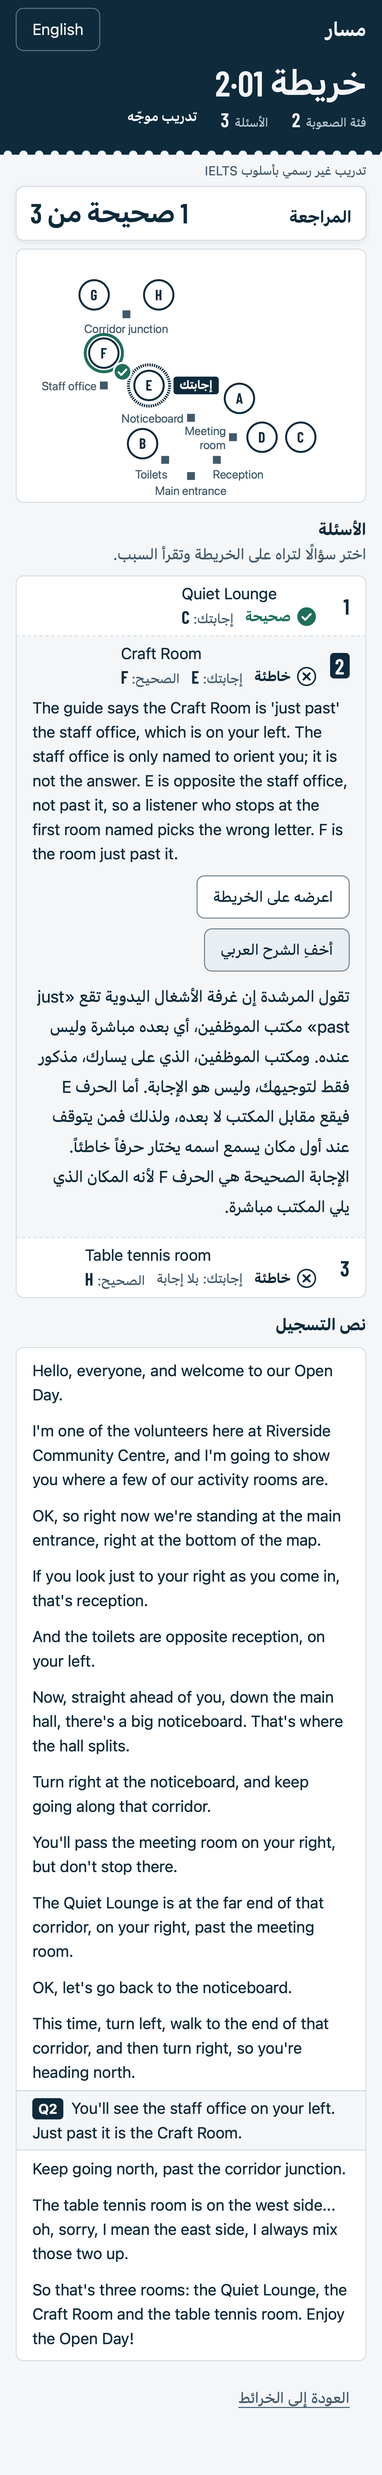
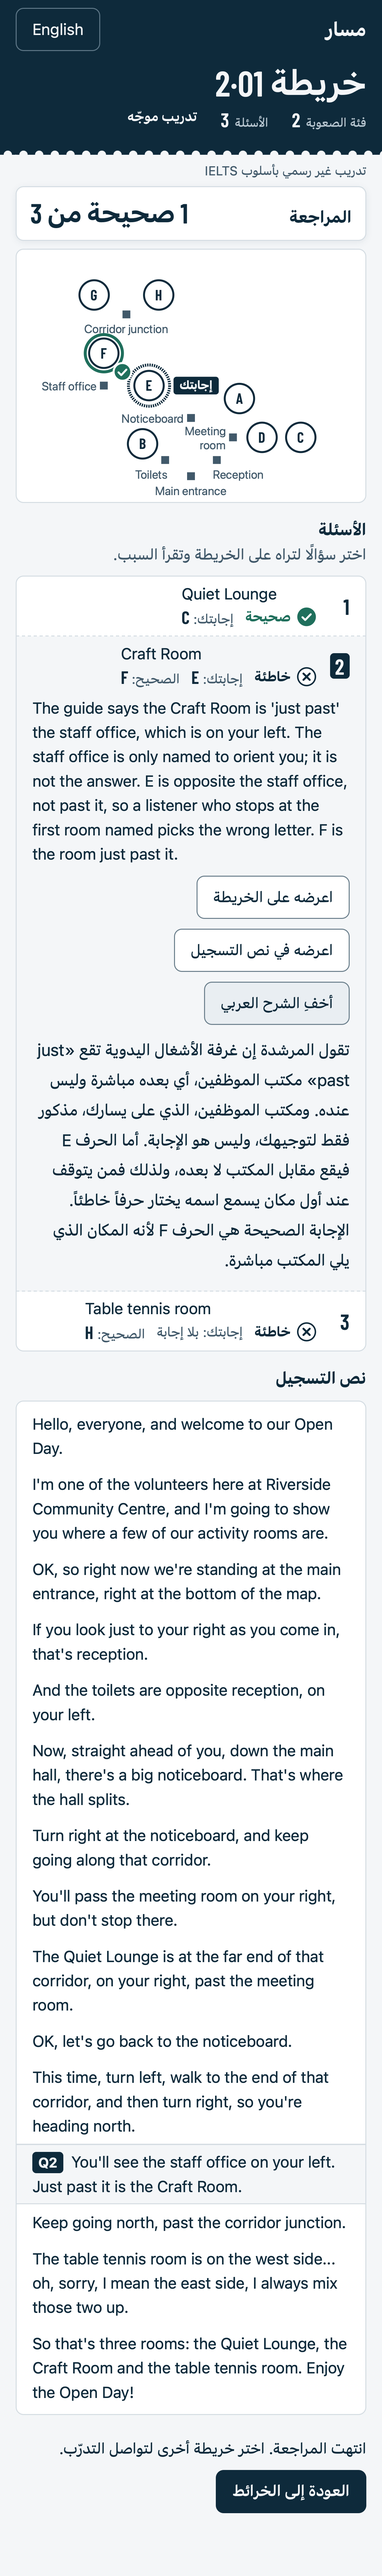
Ticket 09 owner decisions: Arabic toggle stays open; Show in the transcript jumps to and focuses the answer line; review ends with one Back to maps; way back to a past review moved to ticket 12; browser checks and evidence

Changed region(s): [[0.0615, 0.0312, 0.9538, 0.9981], [0.5538, 0.0312, 0.9538, 0.0936], [0.1231, 0.0, 0.1538, 0.0312]]

diff --git a/web/src/Review.tsx b/web/src/Review.tsx
@@ -8,14 +8,15 @@ import { bidiRuns } from './bidi.ts';
 import { ItemMap } from './ItemMap.tsx';
 import type { Strings } from './strings.ts';
 
-type Props = { t: Strings; item: DeliveredItem; attemptId: string; onSessionGone: () => void };
+type Props = { t: Strings; item: DeliveredItem; attemptId: string; onBack: () => void; onSessionGone: () => void };
 
-export function Review({ t, item, attemptId, onSessionGone }: Props) {
+export function Review({ t, item, attemptId, onBack, onSessionGone }: Props) {
   const [review, setReview] = useState<ReviewData | 'loading' | 'offline' | 'failed'>('loading');
   const [selected, setSelected] = useState(0);
   const [arabicOpen, setArabicOpen] = useState(false);
   const heading = useRef<HTMLHeadingElement>(null);
   const mapFrame = useRef<HTMLDivElement>(null);
+  const namedLine = useRef<HTMLLIElement>(null);
 
   const load = useCallback(async () => {
     setReview('loading');
@@ -103,9 +104,14 @@ export function Review({ t, item, attemptId, onSessionGone }: Props) {
                       {q.explanation.en}
                     </p>
                     {/* On a phone the map is out of view below the open row; desktop shows both side by side. */}
-                    <button type="button" className="see-on-map" onClick={() => showMap(mapFrame.current)}>
+                    <button type="button" className="see-on-map" onClick={() => bringIntoView(mapFrame.current)}>
                       {t.seeOnMap}
                     </button>
+                    {q.cueId && (
+                      <button type="button" onClick={() => bringIntoView(namedLine.current, true)}>
+                        {t.showInTranscript}
+                      </button>
+                    )}
                     <button type="button" aria-expanded={arabicOpen} onClick={() => setArabicOpen(!arabicOpen)}>
                       {arabicOpen ? t.hideArabic : t.readArabic}
                     </button>
@@ -138,7 +144,12 @@ export function Review({ t, item, attemptId, onSessionGone }: Props) {
             // The selected question's line; two questions named in one line each mark it when selected.
             const here = cue.id === question.cueId;
             return (
-              <li key={cue.id} className={here ? 'named' : undefined}>
+              <li
+                key={cue.id}
+                ref={here ? namedLine : undefined}
+                className={here ? 'named' : undefined}
+                tabIndex={here ? -1 : undefined}
+              >
                 {here && (
                   <span className="named-tag">
                     <span aria-hidden="true">Q{selected + 1}</span>
@@ -153,14 +164,23 @@ export function Review({ t, item, attemptId, onSessionGone }: Props) {
           })}
         </ol>
       </section>
+
+      <div className="review-end">
+        <p>{t.reviewEnd}</p>
+        <button type="button" className="primary" onClick={onBack}>
+          {t.backToMaps}
+        </button>
+      </div>
     </>
   );
 }
 
-// Scrolls the map into view, without animation for a learner who asked for reduced motion.
-function showMap(frame: HTMLElement | null) {
+// Scrolls a part of the review into view, without animation for a learner who asked for reduced motion. A transcript
+// line also takes focus, so keyboard and screen reader users land on it.
+function bringIntoView(target: HTMLElement | null, focus = false) {
   const still = window.matchMedia('(prefers-reduced-motion: reduce)').matches;
-  frame?.scrollIntoView({ behavior: still ? 'auto' : 'smooth', block: 'start' });
+  if (focus) target?.focus({ preventScroll: true });
+  target?.scrollIntoView({ behavior: still ? 'auto' : 'smooth', block: focus ? 'center' : 'start' });
 }
 
 // "Right" or "Wrong" with a drawn mark, then the learner's letter and the correct one in words.

diff --git a/web/e2e/review.spec.ts b/web/e2e/review.spec.ts
@@ -134,11 +134,26 @@ test('review shows the score, each letter against the correct one on the list an
   await expect(page.getByRole('img', { name: 'خريطة السؤال 3: الحرف الصحيح H، ولم تُجب.' })).toBeVisible();
   await expect(row(page, 3).locator('p.why-ar bdi')).toHaveText(['oh, sorry, I mean', 'G', 'H']);
 
+  // "Show in the transcript" takes the learner to the line where q3's answer is named (c14).
+  await row(page, 3).getByRole('button', { name: 'اعرضه في نص التسجيل' }).click();
+  const named = page.locator('.transcript li.named');
+  await expect(named).toBeFocused();
+  await expect(named).toHaveText(/^Q3/);
+  await expect(named).toBeInViewport();
+
   // Keyboard: the question rows are buttons in order; Enter opens one.
   await row(page, 1).locator('.review-row').focus();
   await page.keyboard.press('Enter');
   await expect(row(page, 1).locator('.review-row')).toHaveAttribute('aria-expanded', 'true');
   await expect(row(page, 1).locator('p.why-ar bdi')).toHaveText(['at the far end', 'D', 'A', 'C']);
+
+  // The review ends with one way on: back to the maps (the quiet back link is not repeated).
+  await expect(page.getByText('انتهت المراجعة. اختر خريطة أخرى لتواصل التدرّب.')).toBeVisible();
+  await expect(page.getByRole('button', { name: 'العودة إلى الخرائط' })).toHaveCount(1);
+  await page.screenshot({ path: `${EVIDENCE}review-end-${testInfo.project.name}.png`, fullPage: true });
+  await page.getByRole('button', { name: 'العودة إلى الخرائط' }).click();
+  await expect(page.getByRole('heading', { name: 'فئة الصعوبة 1' })).toBeVisible();
+  await expect(page.locator('.review-score')).toHaveCount(0);
 });
 
 test('a review that cannot load says why and loads on retry', async ({ page }, testInfo) => {

diff --git a/web/src/Player.tsx b/web/src/Player.tsx
@@ -261,7 +261,7 @@ function PlayerScreen({ t, mapNumber, onBack, onSessionGone, item, attempt }: Sc
       <p className="unofficial">{t.unofficial}</p>
 
       {reviewing ? (
-        <Review t={t} item={item} attemptId={attempt.id} onSessionGone={onSessionGone} />
+        <Review t={t} item={item} attemptId={attempt.id} onBack={onBack} onSessionGone={onSessionGone} />
       ) : (
         <>
           <div className="status-strip" ref={strip} tabIndex={-1}>
@@ -437,9 +437,12 @@ function PlayerScreen({ t, mapNumber, onBack, onSessionGone, item, attempt }: Sc
         </>
       )}
 
-      <button type="button" className="quiet back" onClick={onBack}>
-        {t.backToMaps}
-      </button>
+      {/* The review ends with its own Back to maps. */}
+      {!reviewing && (
+        <button type="button" className="quiet back" onClick={onBack}>
+          {t.backToMaps}
+        </button>
+      )}
 
       {/* No controls attribute: the first listen offers no pause or seek. Gone once submitted (the server closes it). */}
       {!submitted && (

diff --git a/web/src/app.css b/web/src/app.css
@@ -1011,6 +1011,25 @@ button.review-row {
   border-radius: 4px;
 }
 
+/* Draws the eye to the named line after "Show in the transcript"; the highlight itself is the .named background. */
+.transcript li.named:focus-visible {
+  outline: 2px solid var(--night);
+  outline-offset: -2px;
+}
+
+.review-end {
+  display: flex;
+  flex-wrap: wrap;
+  align-items: center;
+  gap: 0.75rem 1rem;
+  padding-block: 0.5rem;
+}
+
+.player .review-end p {
+  margin: 0;
+  color: var(--ink);
+}
+
 /* Map marks: the correct letter framed solid with a tick; the learner's letter framed dashed with a tag. */
 .item-map .review-marks .correct-frame {
   fill: none;
@@ -1048,7 +1067,8 @@ button.review-row {
   font-weight: 700;
 }
 
-.player .back {
+.player .back,
+.review-end {
   grid-area: back;
   justify-self: start;
   margin: 1rem;
@@ -1098,7 +1118,8 @@ button.review-row {
     align-self: start;
   }
 
-  .player .back {
+  .player .back,
+  .review-end {
     margin-inline: 0;
   }
 

diff --git a/web/src/strings.ts b/web/src/strings.ts
@@ -177,10 +177,12 @@ const en = {
   right: 'Right',
   wrong: 'Wrong',
   seeOnMap: 'See it on the map',
+  showInTranscript: 'Show in the transcript',
   readArabic: 'Read in Arabic',
   hideArabic: 'Hide the Arabic',
   transcriptTitle: 'Transcript',
   answerNamedHere: (n: number) => `Question ${n} answer named here`,
+  reviewEnd: 'That is the whole review. Choose another map to keep practising.',
   lang: 'en',
 };
 
@@ -351,10 +353,12 @@ const ar: typeof en = {
   right: 'صحيحة',
   wrong: 'خاطئة',
   seeOnMap: 'اعرضه على الخريطة',
+  showInTranscript: 'اعرضه في نص التسجيل',
   readArabic: 'اقرأ الشرح بالعربية',
   hideArabic: 'أخفِ الشرح العربي',
   transcriptTitle: 'نص التسجيل',
   answerNamedHere: (n: number) => `هنا ذُكرت إجابة السؤال ${n}`,
+  reviewEnd: 'انتهت المراجعة. اختر خريطة أخرى لتواصل التدرّب.',
   lang: 'ar',
 };
 

diff --git a/.scratch/listening-map-prototype/issues/09-review-explanations.md b/.scratch/listening-map-prototype/issues/09-review-explanations.md
@@ -96,3 +96,12 @@ Built on `agent/review-explanations`. It branches from `agent/answer-submit` at 
 - CI (not pushed).
 
 **Not in this ticket:** a way back to a past review after leaving the screen (the endpoint exists; no screen links to it yet). Suggest ticket 12 (resume and repeat) or 15 (progress) owns it.
+
+### 2026-11-20, owner decisions (agent built)
+- **Arabic toggle:** stays open across questions, as built (owner).
+- **Way back to a past review:** ticket 12 owns it; a line was added there (owner).
+- **Show in the transcript (built):** the open explanation has a button that scrolls to the line where that answer is named and moves focus there (reduced motion: no animation).
+- **End of review (built):** the review ends with "That is the whole review. Choose another map to keep practising." and one Back to maps button; the quiet back link is hidden while reviewing, so it is not repeated. Answer Replay (ticket 10) adds the next step later.
+- **e677cda:** it is an ancestor of this branch, so merging `agent/review-explanations` brings it in; no separate merge is needed.
+- **Ran:** `npm test` server 131/131, web 4/4; type check clean; lint 4 warnings from before; build OK; `npx playwright test` 46 passed, 2 skipped (`playwright-run-owner-decisions.txt`); review tests run 3 times in a row (all passed after a fix: the first test now waits for Browse after Back, so its pending maps request does not spill into the next test). New screenshots: `review-end-*.png`.
+- **NOT VERIFIED:** the two new Arabic strings ("اعرضه في نص التسجيل", "انتهت المراجعة. اختر خريطة أخرى لتواصل التدرّب."), plus everything listed above.

diff --git a/.scratch/listening-map-prototype/issues/12-resume-repeat.md b/.scratch/listening-map-prototype/issues/12-resume-repeat.md
@@ -12,6 +12,7 @@ Spec: `../spec.md`
 - [ ] Interruption recorded on the attempt
 - [ ] Redo flagged seenBefore and shown in history
 - [ ] Browse marks seen items
+- [ ] A seen map in Browse links to its last review (`GET /attempts/{id}/review` exists since ticket 09; owner, 2026-11-20)
 
 ## Comments
 
